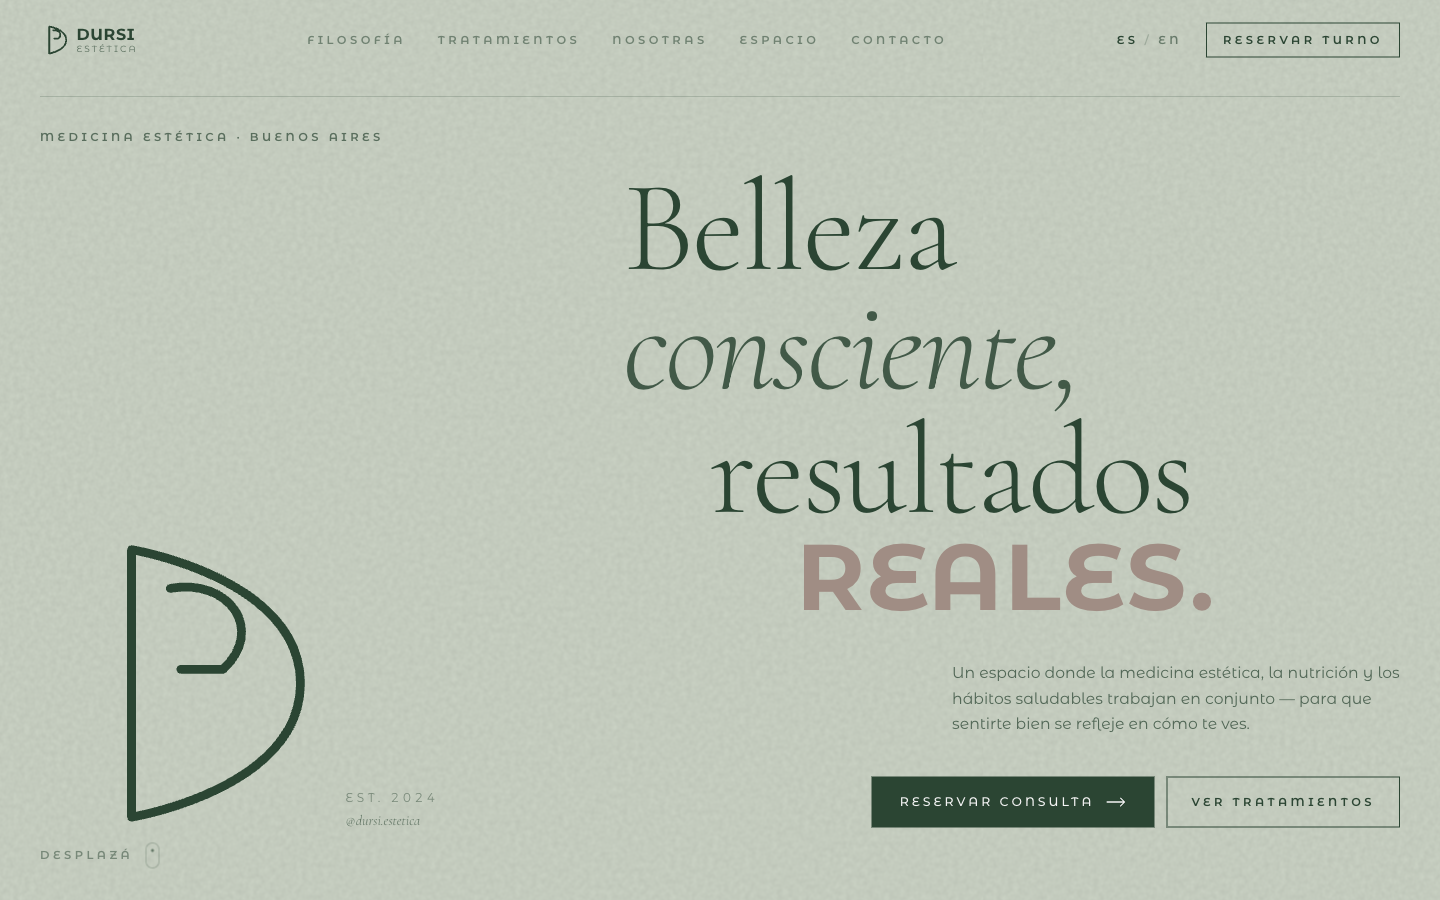
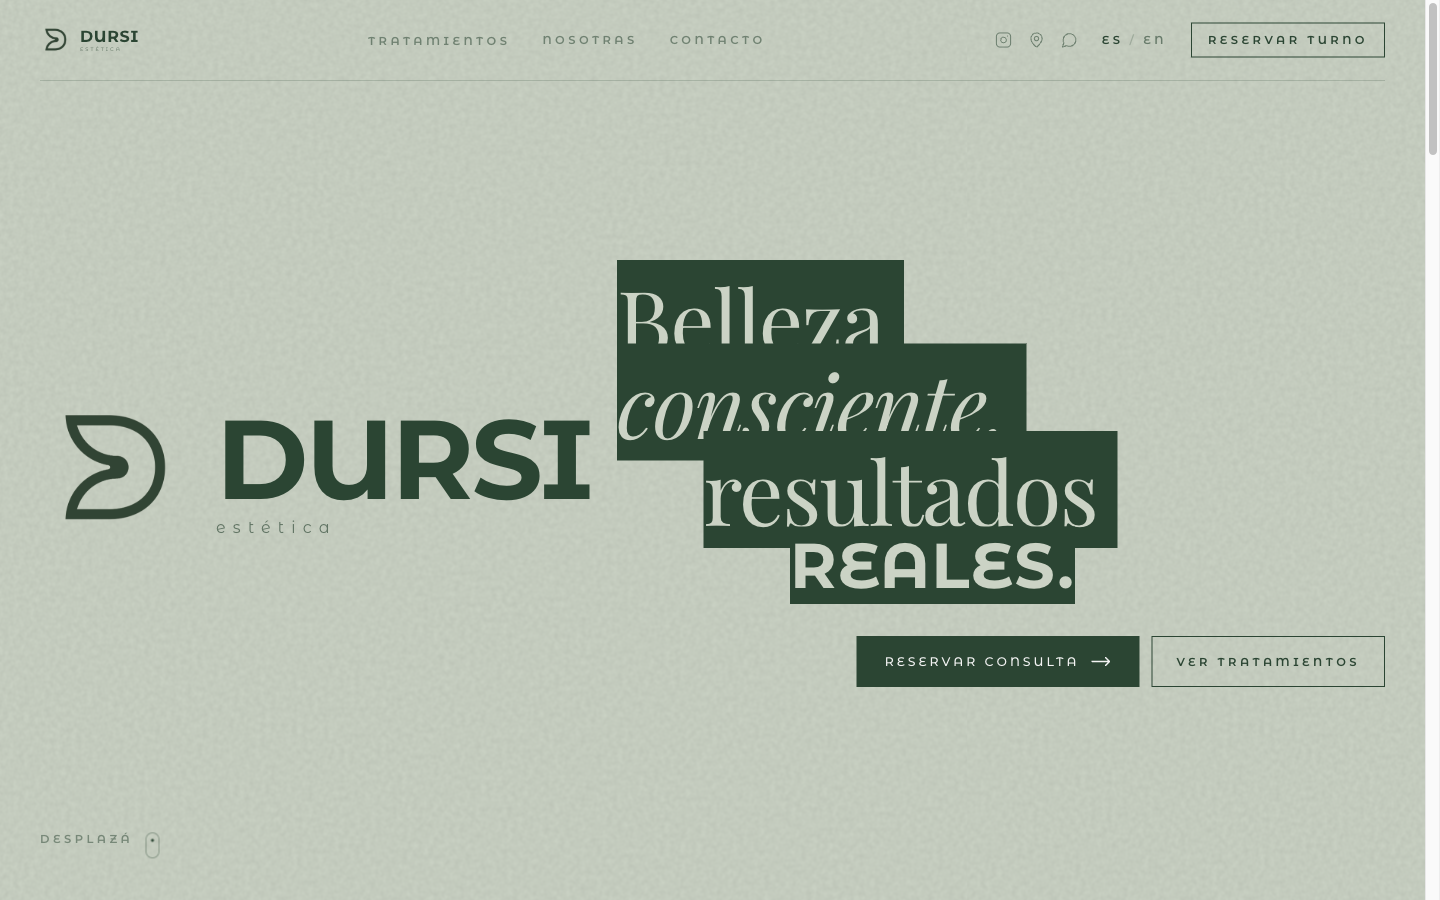
feat: add TikTok link to all social sections, update hero CTA
- Add site.tiktok to lib/site.ts
- Add TikTok icon (Nav desktop/mobile, Contact, Location, Footer)
- Replace @handle label with "Instagram"/"TikTok" for consistency
- Hero CTA: "Reservar consulta" → "Reservá tu turno" (ES), "Book your visit" (EN)

diff --git a/components/ui/Nav.tsx b/components/ui/Nav.tsx
@@ -8,6 +8,7 @@ import { LogoMark } from '@/components/brand/LogoMark';
 import { LangSwitcher } from './LangSwitcher';
 import { TreatmentsMenu } from './TreatmentsMenu';
 import { Instagram, MapPin, MessageCircle } from 'lucide-react';
+import { TikTokIcon } from './TikTokIcon';
 import { site } from '@/lib/site';
 
 const sections = ['treatments', 'about', 'contact'] as const;
@@ -92,6 +93,9 @@ export function Nav() {
               <a href={site.instagram} target="_blank" rel="noopener noreferrer" aria-label="Instagram" className="text-ink/55 transition-colors hover:text-ink">
                 <Instagram size={17} strokeWidth={1.5} />
               </a>
+              <a href={site.tiktok} target="_blank" rel="noopener noreferrer" aria-label="TikTok" className="text-ink/55 transition-colors hover:text-ink">
+                <TikTokIcon size={17} />
+              </a>
               <a href={site.address.mapsLink} target="_blank" rel="noopener noreferrer" aria-label="Google Maps" className="text-ink/55 transition-colors hover:text-ink">
                 <MapPin size={17} strokeWidth={1.5} />
               </a>
@@ -163,6 +167,9 @@ export function Nav() {
               <LangSwitcher />
               <a href={site.instagram} target="_blank" rel="noopener noreferrer" aria-label="Instagram" className="text-ink/55 transition-colors hover:text-ink">
                 <Instagram size={18} strokeWidth={1.5} />
+              </a>
+              <a href={site.tiktok} target="_blank" rel="noopener noreferrer" aria-label="TikTok" className="text-ink/55 transition-colors hover:text-ink">
+                <TikTokIcon size={18} />
               </a>
               <a href={site.address.mapsLink} target="_blank" rel="noopener noreferrer" aria-label="Google Maps" className="text-ink/55 transition-colors hover:text-ink">
                 <MapPin size={18} strokeWidth={1.5} />

diff --git a/components/sections/Contact.tsx b/components/sections/Contact.tsx
@@ -2,6 +2,7 @@
 
 import { useTranslations } from 'next-intl';
 import { Instagram, Mail } from 'lucide-react';
+import { TikTokIcon } from '@/components/ui/TikTokIcon';
 import { Reveal } from '@/components/ui/Reveal';
 import { WhatsAppButton } from '@/components/ui/WhatsAppButton';
 import { site } from '@/lib/site';
@@ -36,7 +37,19 @@ export function Contact() {
               <span className="flex h-9 w-9 items-center justify-center rounded-full border border-bone/30 transition-colors group-hover:border-bone">
                 <Instagram size={16} strokeWidth={1.5} />
               </span>
-              <span className="text-sm">{site.handle}</span>
+              <span className="text-sm">Instagram</span>
+            </a>
+
+            <a
+              href={site.tiktok}
+              target="_blank"
+              rel="noopener noreferrer"
+              className="group flex items-center gap-3 text-bone/75 transition-colors hover:text-bone"
+            >
+              <span className="flex h-9 w-9 items-center justify-center rounded-full border border-bone/30 transition-colors group-hover:border-bone">
+                <TikTokIcon size={16} />
+              </span>
+              <span className="text-sm">TikTok</span>
             </a>
 
             <a

diff --git a/components/ui/TikTokIcon.tsx b/components/ui/TikTokIcon.tsx
@@ -1,0 +1,17 @@
+interface Props {
+  size?: number;
+}
+
+export function TikTokIcon({ size = 24 }: Props) {
+  return (
+    <svg
+      width={size}
+      height={size}
+      viewBox="0 0 24 24"
+      fill="currentColor"
+      aria-hidden="true"
+    >
+      <path d="M19.59 6.69a4.83 4.83 0 0 1-3.77-4.25V2h-3.45v13.67a2.89 2.89 0 0 1-2.88 2.5 2.89 2.89 0 0 1-2.89-2.89 2.89 2.89 0 0 1 2.89-2.89c.28 0 .54.04.79.1V9.01a6.27 6.27 0 0 0-.79-.05 6.34 6.34 0 0 0-6.34 6.34 6.34 6.34 0 0 0 6.34 6.34 6.34 6.34 0 0 0 6.33-6.34V8.69a8.18 8.18 0 0 0 4.78 1.52V6.75a4.85 4.85 0 0 1-1.01-.06z" />
+    </svg>
+  );
+}

diff --git a/components/sections/Footer.tsx b/components/sections/Footer.tsx
@@ -59,7 +59,17 @@ export function Footer() {
                   rel="noopener noreferrer"
                   className="transition-colors hover:text-sage"
                 >
-                  {site.handle}
+                  Instagram
+                </a>
+              </li>
+              <li>
+                <a
+                  href={site.tiktok}
+                  target="_blank"
+                  rel="noopener noreferrer"
+                  className="transition-colors hover:text-sage"
+                >
+                  TikTok
                 </a>
               </li>
               <li>

diff --git a/components/sections/Location.tsx b/components/sections/Location.tsx
@@ -2,6 +2,7 @@
 
 import { useTranslations } from 'next-intl';
 import { MapPin, Clock, MessageCircle, Instagram } from 'lucide-react';
+import { TikTokIcon } from '@/components/ui/TikTokIcon';
 import { Reveal } from '@/components/ui/Reveal';
 import { site } from '@/lib/site';
 
@@ -27,8 +28,13 @@ export function Location() {
     },
     {
       icon: <Instagram size={18} strokeWidth={1.5} />,
-      label: site.handle,
+      label: 'Instagram',
       href: site.instagram
+    },
+    {
+      icon: <TikTokIcon size={18} />,
+      label: 'TikTok',
+      href: site.tiktok
     }
   ];
 

diff --git a/lib/site.ts b/lib/site.ts
@@ -3,6 +3,7 @@ export const site = {
   shortName: 'Dursi',
   handle: '@dursi.estetica',
   instagram: 'https://www.instagram.com/dursi.estetica/',
+  tiktok: 'https://www.tiktok.com/@dursi.estetica?_r=1&_t=ZS-965XRp7lArn',
   email: 've.centroestetica@gmail.com',
   phone: '+54 9 11 6602 1077',
   phoneRaw: '5491166021077',
